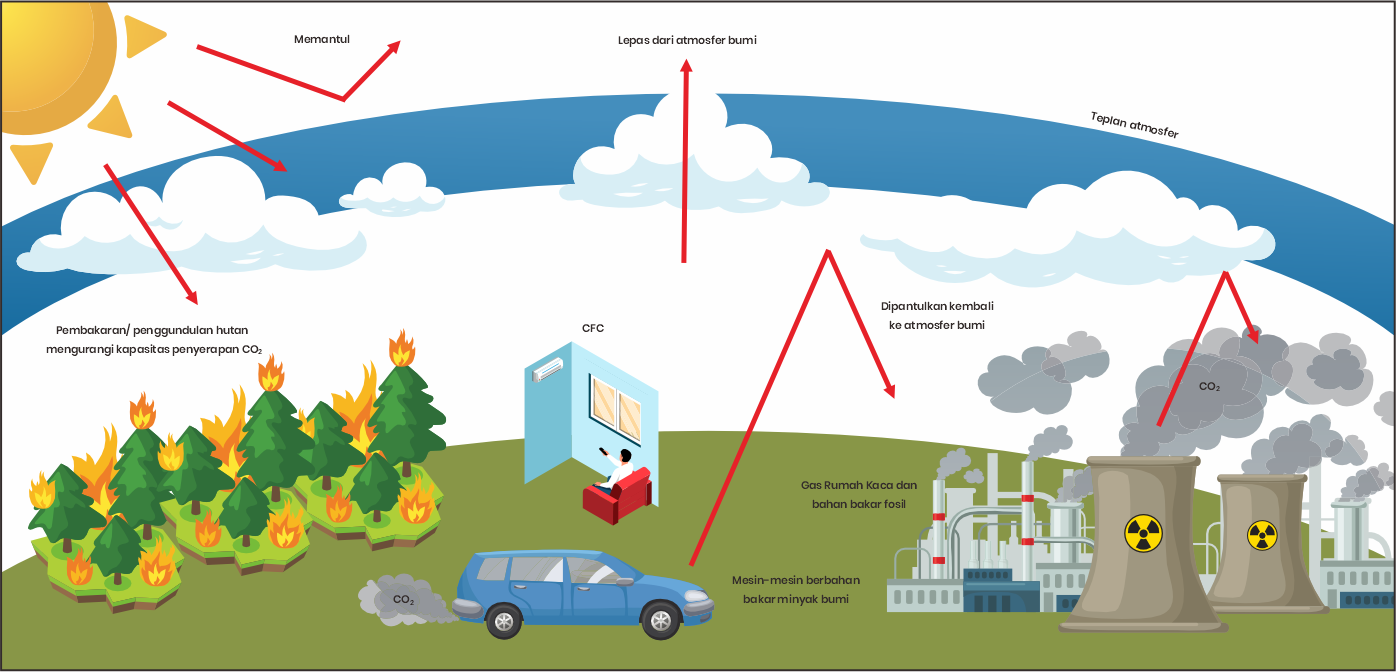
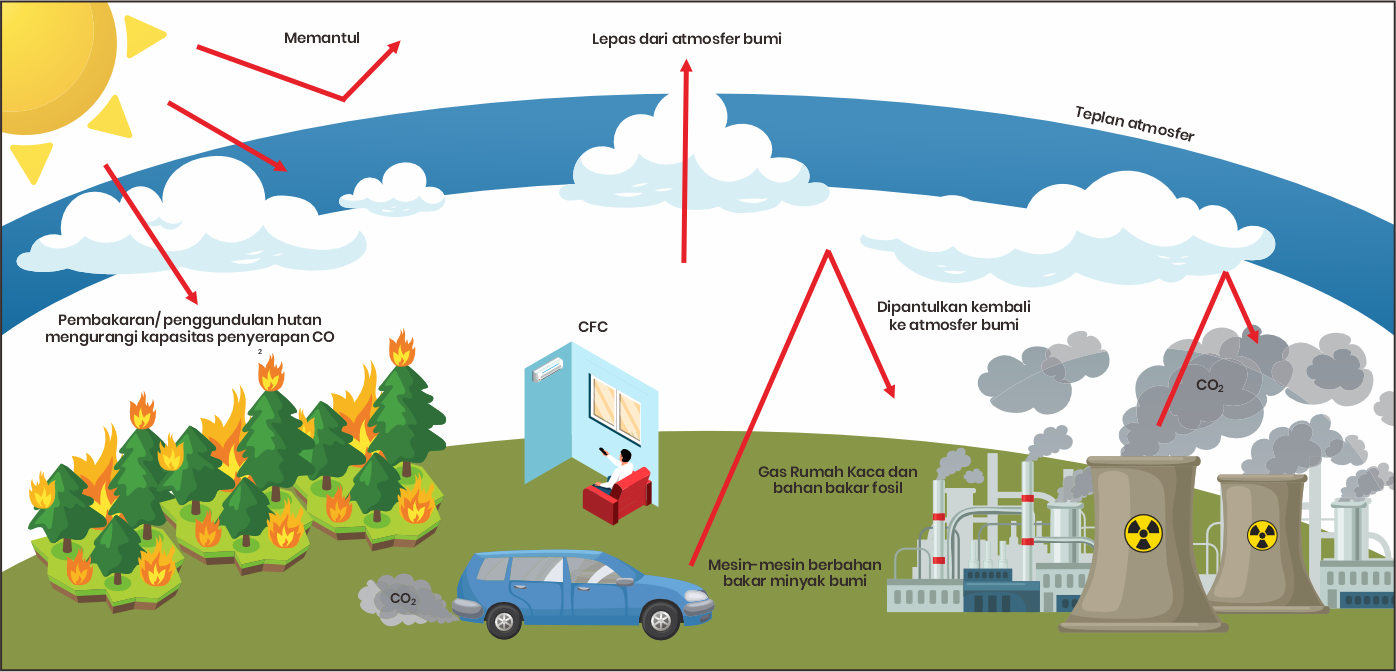
change materi layout

diff --git a/app/materi/intro/[id].jsx b/app/materi/intro/[id].jsx
@@ -72,8 +72,9 @@ const Intro = () => {
             resizeMode="contain"
             style={{
               justifyContent: "center",
-              height: 360,
-              width: 680,
+              // height: 360,
+              // width: 680,
+              flex: 1,
               // backgroundColor: "lime",
             }}
           >
@@ -84,7 +85,7 @@ const Intro = () => {
                 height: "10%",
                 // alignItems: "center",
                 paddingHorizontal: 40,
-                marginVertical: 50,
+                marginVertical: 75,
               }}
             >
               <Text

diff --git a/components/materi/materi1/subMateri/sub1.jsx b/components/materi/materi1/subMateri/sub1.jsx
@@ -36,8 +36,9 @@ const Sub1 = () => {
         source={require("../../../../assets/images/proses_pemanasan.png")}
         resizeMode="contain"
         style={{
-          width: 600,
-          height: 290,
+          width: 535,
+          height: 260,
+          // flex: 1,
           justifyContent: "center",
           // backgroundColor: "yellow",
           marginBottom: 10,
